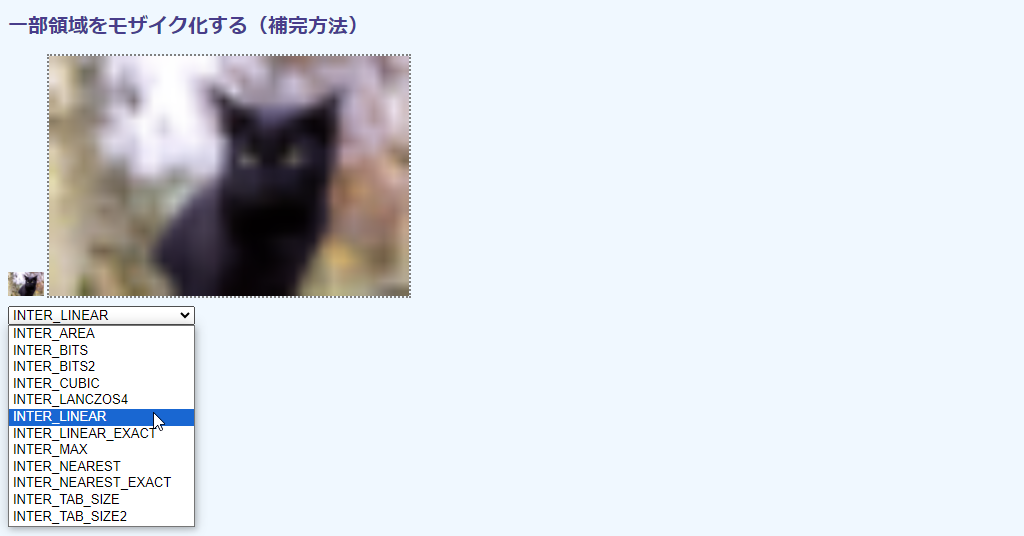
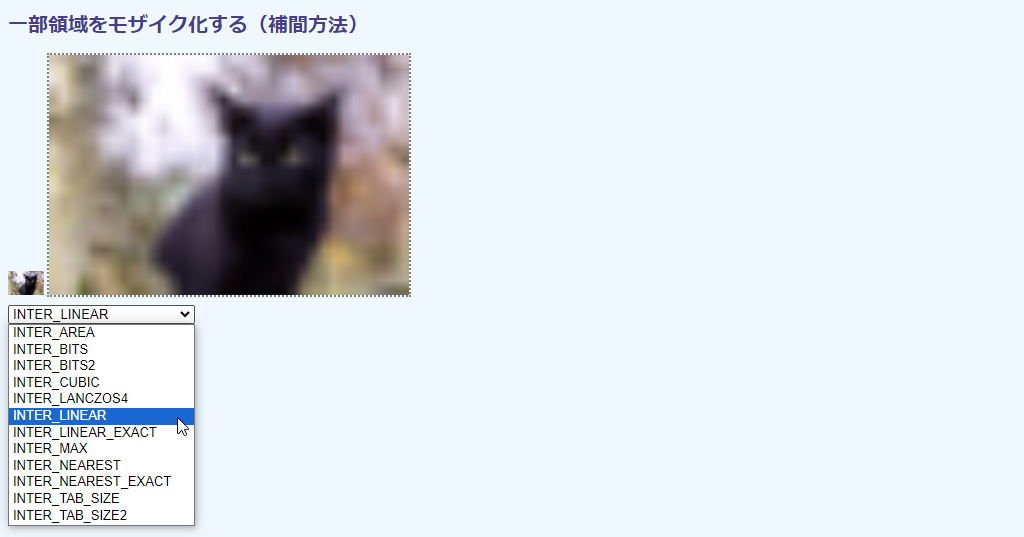
img size test

Changed region(s): [[0.0, 0.4776, 0.4062, 0.9851], [0.0, 0.0299, 0.3438, 0.0597]]

diff --git a/Codes/img-resize1.html b/Codes/img-resize1.html
@@ -7,7 +7,7 @@
 </head>
 <body>
 
-<h1>一部領域をモザイク化する（補完方法）</h1>
+<h1>一部領域をモザイク化する（補間方法）</h1>
 
 <div>
   <img id="imageTag" width="36" src="samples/blackcat.jpg"/>
